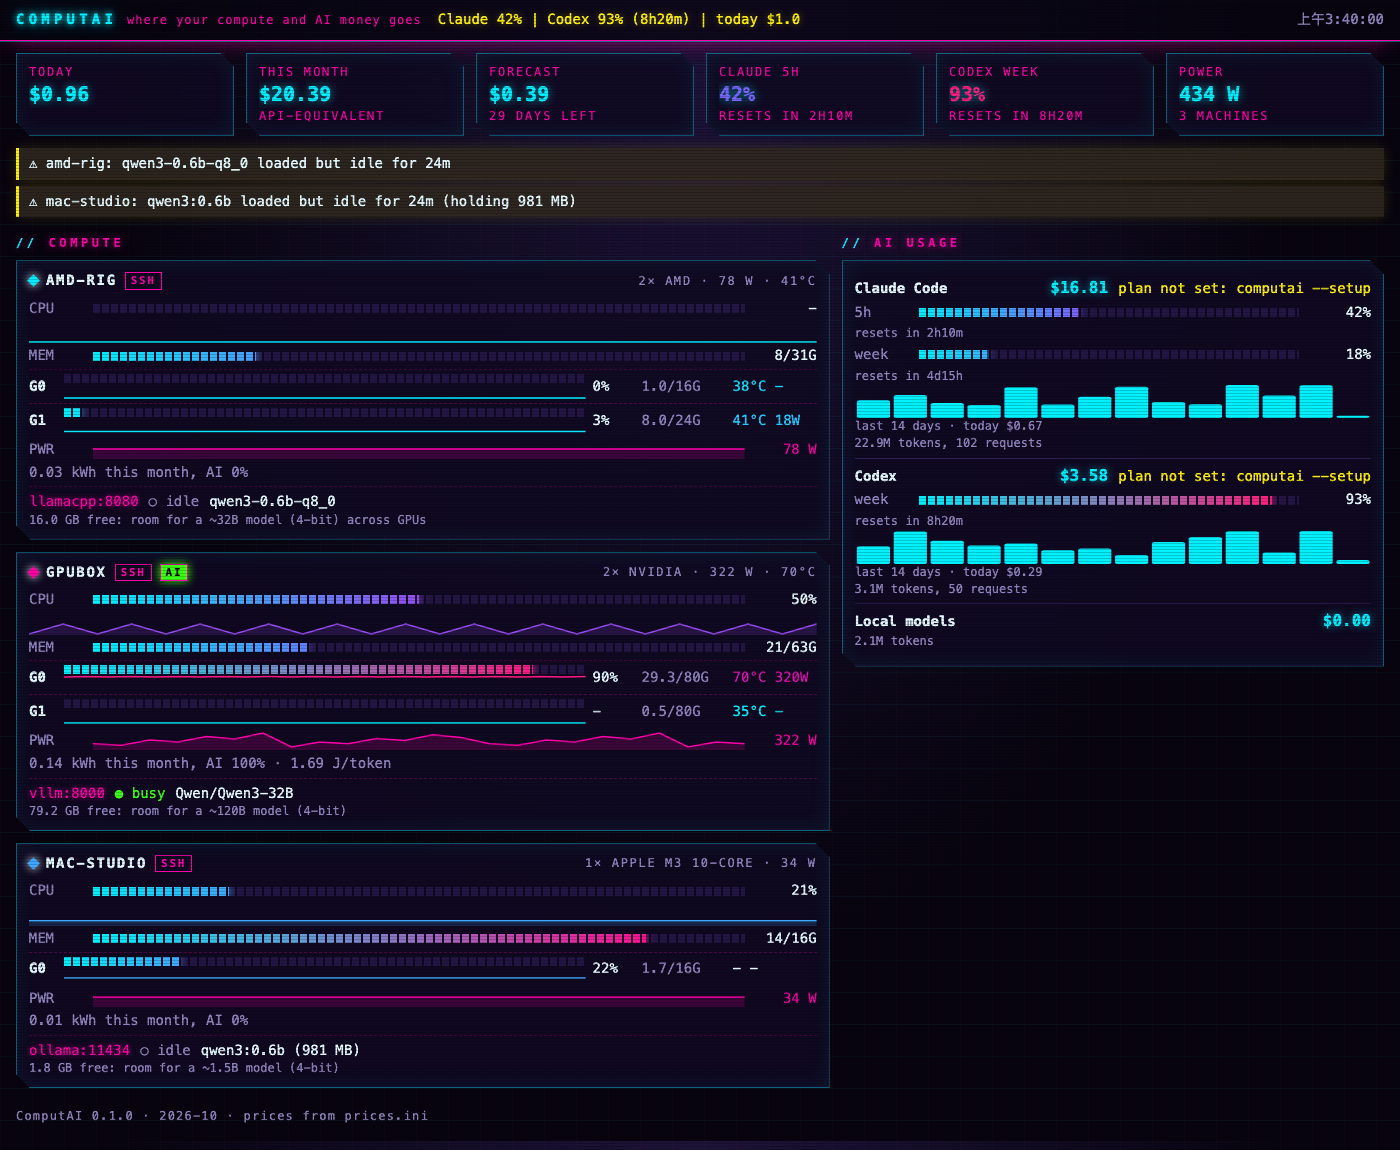
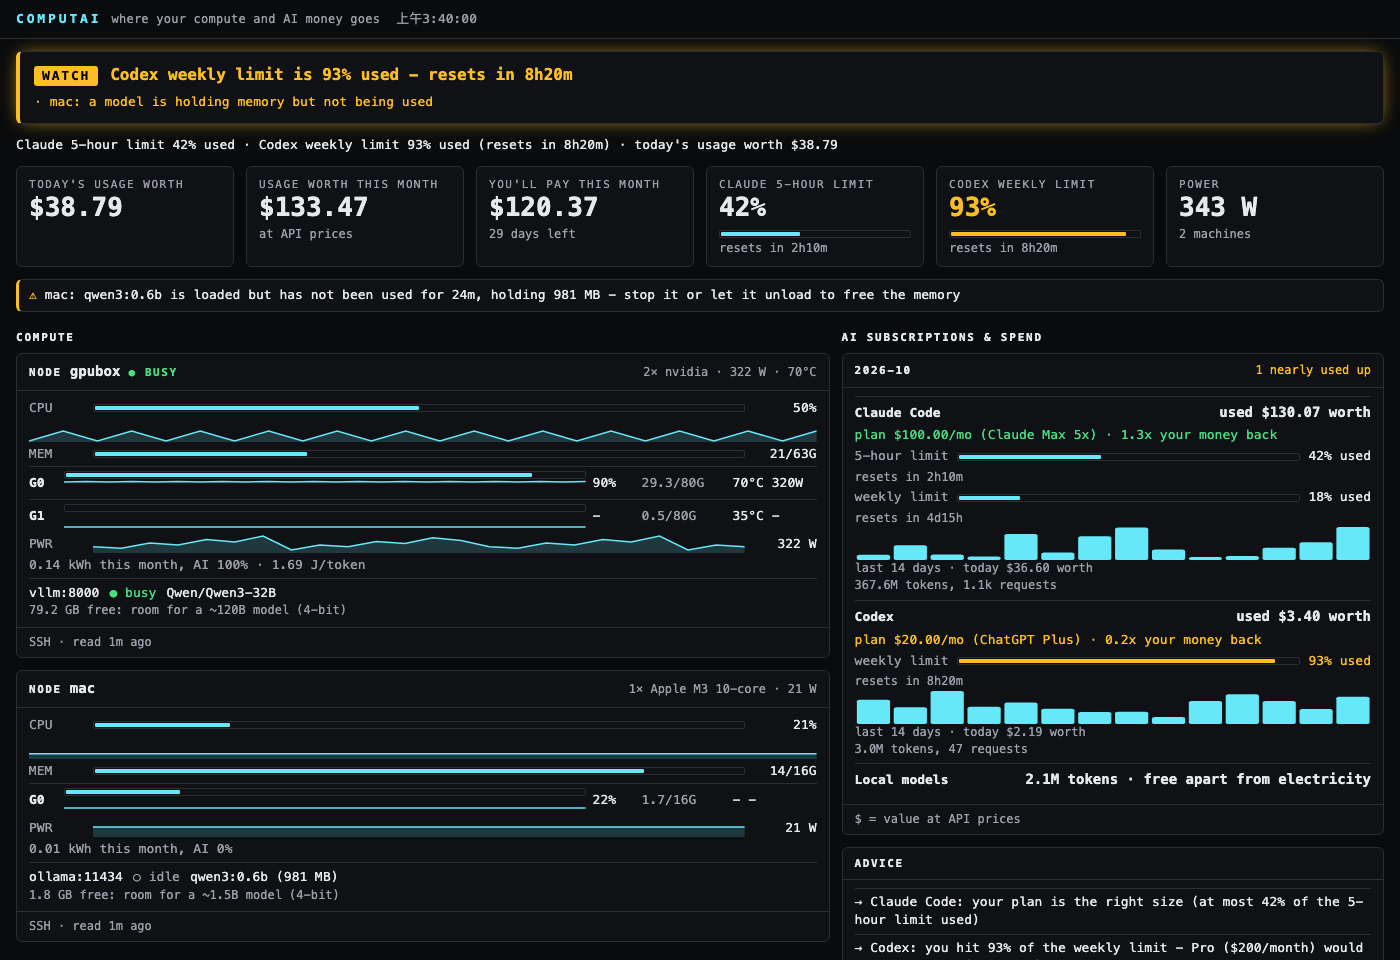
Replace the README screenshots with the redesigned cyber theme

Changed region(s): [[0.0, 0.0, 1.0, 1.0], [0.8907, 0.9062, 0.9521, 0.9375]]

diff --git a/README.zh-TW.md b/README.zh-TW.md
@@ -11,7 +11,7 @@
 
 ![網頁版](docs/images/web.png)
 
-*（截圖用的是示範資料。想要原本比較素的 slurmtop 樣式：`--theme classic` 或 `computai --set general.theme=classic`。）*
+*（截圖用的是示範資料。預設的 `cyber` 主題照 [docs/DESIGN.md](docs/DESIGN.md) 設計：最上面一行先告訴你有沒有事，顏色只用來表達意思。想要 slurmtop 樣式：`--theme classic` 或 `computai --set general.theme=classic`。）*
 
 ## 能做什麼
 

diff --git a/README.md b/README.md
@@ -27,7 +27,7 @@ codex
 
 ![Web dashboard](docs/images/web.png)
 
-*(Screenshots use demo data. Prefer the calmer slurmtop look? `--theme classic` or `computai --set general.theme=classic`.)*
+*(Screenshots use demo data. The default `cyber` theme follows [docs/DESIGN.md](docs/DESIGN.md): the top line says whether anything needs you, colours only mean something. Prefer the slurmtop look? `--theme classic` or `computai --set general.theme=classic`.)*
 
 ## What it does
 
